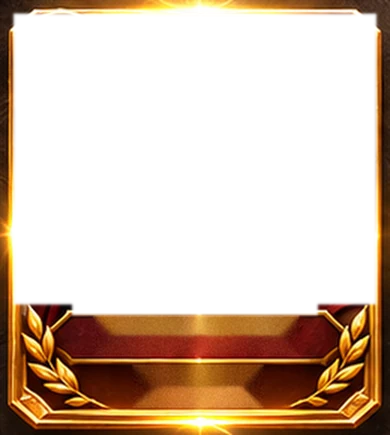
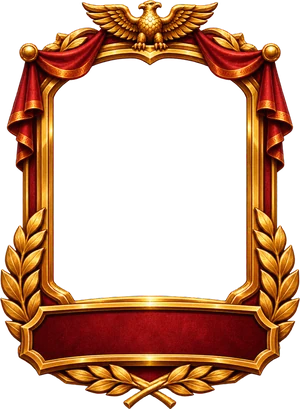
Victory screen from separate ChatGPT parts (v0.16.5)
Panel, banner, ribbon, card frame, coin panel and buttons are now the
separate transparent images instead of cut-outs from one mockup. Layout
scales with the panel width (container units), card portraits crop the
painted card art by percentage.

Claude-Session: https://claude.ai/code/session_01G3ZjrAEdzY3bS4o8QwE679

diff --git a/src/screens.css b/src/screens.css
@@ -120,47 +120,52 @@
   .lr-deck, .lr-pool { grid-template-columns: repeat(auto-fill, minmax(92px, 1fr)); }
 }
 
-/* ---------- Overwinnings-/verliesscherm (onderdelen uit art/source/overwinning-voorbeeld.png) ---------- */
-.lr-screen[data-screen='result'] { background: #000 var(--result-bg) center / cover no-repeat; }
-.lr-screen[data-screen='result'] .lr-sheet { width: min(640px, 100%); text-align: center; padding: 0 18px 16px;
-  background: linear-gradient(#2a1a10f2, #140c08f5); border: 3px solid #e2b155;
-  box-shadow: inset 0 0 0 2px #7a4f1c, inset 0 0 0 6px #2a1708, inset 0 0 0 7px #c8923f, 0 0 40px #ffb54a55, 0 18px 50px #000c; }
-.lr-banner { position: relative; margin: 0 -18px 4px; }
-.lr-banner img { display: block; width: 100%; height: auto; border-radius: 14px 14px 0 0; }
-.lr-banner span { position: absolute; inset: 0; display: grid; place-items: center; font: bold clamp(34px, 9vw, 64px) Georgia, serif;
-  letter-spacing: .08em; color: #e9d7b5; background: linear-gradient(#f5e6c8, #a99579); -webkit-background-clip: text; background-clip: text;
-  -webkit-text-fill-color: transparent; filter: drop-shadow(0 3px 0 #3a1608) drop-shadow(0 0 10px #000a); }
-.lr-banner.loss img { filter: saturate(.35) brightness(.7); }
-.lr-ribbon img { width: min(380px, 80%); height: auto; }
-.lr-rcards { display: flex; gap: 10px; justify-content: center; flex-wrap: wrap; margin: 6px 0 10px; }
-.lr-rcard { position: relative; width: 120px; aspect-ratio: 390 / 435; animation: lrDeal .5s backwards; }
+/* ---------- Overwinnings-/verliesscherm (losse onderdelen: art/source/overwinning-*.png) ---------- */
+/* Alle maten in % / cqw van de paneelbreedte, zodat het op elk scherm hetzelfde oogt. */
+.lr-screen[data-screen='result'] { background: #000 var(--result-bg) center / cover no-repeat; overflow: auto; }
+.lr-screen[data-screen='result'] .lr-sheet { container-type: inline-size; width: min(800px, 96vw, 118dvh); aspect-ratio: 1200 / 787;
+  max-height: none; overflow: visible; text-align: center; border: 0; border-radius: 0; box-shadow: none;
+  padding: 12.5cqw 8cqw 5cqw; margin: 8vh 0 1vh; position: relative; display: flex; flex-direction: column; justify-content: flex-start;
+  background: var(--result-panel) center / 100% 100% no-repeat; filter: drop-shadow(0 14px 30px #000c); }
+.lr-banner { position: absolute; left: 17%; width: 66%; top: -10cqw; }
+.lr-banner img { display: block; width: 100%; height: auto; }
+.lr-banner span { position: absolute; left: 18%; right: 18%; top: 34%; bottom: 26%; display: grid; place-items: center;
+  font: bold 6.4cqw Georgia, 'Times New Roman', serif; letter-spacing: .08em; line-height: 1;
+  background: linear-gradient(#fff6c8 10%, #ffd45c 45%, #c7871f 85%); -webkit-background-clip: text; background-clip: text;
+  -webkit-text-fill-color: transparent; filter: drop-shadow(0 .35cqw 0 #4a1606) drop-shadow(0 0 1.2cqw #000c); }
+.lr-banner.loss img { filter: saturate(.3) brightness(.75); }
+.lr-banner.loss span { background-image: linear-gradient(#f2ece2 10%, #c9bfae 55%, #8f8270 85%); }
+.lr-ribbon { flex: none; }
+.lr-ribbon img { width: 40cqw; height: auto; display: block; margin: 0 auto; }
+.lr-rrow { display: flex; gap: 3cqw; justify-content: center; align-items: center; margin: 1.2cqw 0 0; }
+.lr-rcards { display: flex; gap: 1.6cqw; justify-content: center; }
+.lr-rcard { position: relative; width: 14.5cqw; aspect-ratio: 300 / 409; animation: lrDeal .5s backwards; }
 .lr-rcard:nth-child(2) { animation-delay: .12s; } .lr-rcard:nth-child(3) { animation-delay: .24s; } .lr-rcard:nth-child(4) { animation-delay: .36s; }
 .lr-rcard > img { position: absolute; inset: 0; width: 100%; height: 100%; pointer-events: none; }
-/* portretgat in de lijst: 9..251 x 9..210 van 260 x 290 bronpixels */
-.lr-rcard-art { position: absolute; left: 3.5%; top: 3.1%; width: 93%; height: 69.5%; overflow: hidden; display: grid; place-items: center; }
-.lr-rcard-art .lr-card-img { transform: scale(1.6); transform-origin: 62% 52%; }
-.lr-rcard b { position: absolute; left: 0; right: 0; top: 75%; font-size: 10.5px; color: #ffe39b; text-transform: uppercase; letter-spacing: .04em;
-  text-shadow: 0 1px 0 #3a1608; white-space: nowrap; overflow: hidden; text-overflow: ellipsis; padding: 0 12%; }
-.lr-rcard i { position: absolute; left: 0; right: 0; top: 85.5%; font: bold 15px Georgia, serif; font-style: normal; color: #8ff0a2; text-shadow: 0 1px 2px #000; }
+.lr-rcard-art { position: absolute; left: 17%; top: 13.5%; width: 66%; height: 61%; overflow: hidden; display: grid; place-items: center; background: #1b120b; }
+.lr-portrait { position: absolute; left: 0; top: 0; width: 100%; transform: scale(1.5); transform-origin: 68% 60%; }
+.lr-rcard b { position: absolute; left: 14%; right: 14%; top: 79%; font-size: 1.45cqw; line-height: 1.2; color: #ffe39b; text-transform: uppercase;
+  letter-spacing: .02em; text-shadow: 0 1px 0 #3a1608; white-space: nowrap; overflow: hidden; text-overflow: ellipsis; }
+.lr-rcard i { position: absolute; left: 0; right: 0; bottom: -13%; font: bold 2.4cqw Georgia, serif; font-style: normal; color: #8ff0a2;
+  text-shadow: 0 1px 2px #000, 0 0 6px #000; }
 @keyframes lrDeal { from { opacity: 0; transform: translateY(20px) scale(.85) rotate(-4deg); } }
-.lr-coinbox { position: relative; width: min(460px, 100%); margin: 4px auto; }
-.lr-coinbox img { display: block; width: 100%; height: auto; border-radius: 8px; }
-.lr-coinbox div { position: absolute; left: 42%; right: 12%; top: 0; bottom: 0; display: flex; flex-direction: column; justify-content: center; line-height: 1.05; }
-.lr-coinbox small { color: #ecc97d; letter-spacing: .14em; font-size: 12px; font-weight: bold; }
-.lr-coinbox b { font-size: clamp(26px, 6vw, 40px); color: #ffe39b; text-shadow: 0 2px 0 #5a3410, 0 0 12px #ffb54a88; }
-.lr-noreward { margin: 14px 0 !important; }
-.lr-bigbtn { position: relative; border: 0; padding: 0; background: none; cursor: pointer; width: min(300px, 62%); transition: transform .12s, filter .12s; }
-.lr-bigbtn.small { width: min(150px, 32%); }
+.lr-coinbox { position: relative; width: 38cqw; flex: none; }
+.lr-coinbox img { display: block; width: 100%; height: auto; }
+.lr-coinbox div { position: absolute; left: 40%; right: 12%; top: 34%; bottom: 16%; display: flex; flex-direction: column; justify-content: center; line-height: 1.05; }
+.lr-coinbox small { color: #ecc97d; letter-spacing: .14em; font-size: 1.6cqw; font-weight: bold; }
+.lr-coinbox b { font-size: 4.8cqw; color: #ffe39b; text-shadow: 0 2px 0 #5a3410, 0 0 12px #ffb54a88; }
+.lr-screen[data-screen='result'] .lr-level { justify-content: center; margin: 3.4cqw 0 0; font-size: 2.1cqw; gap: 1.5cqw; }
+.lr-screen[data-screen='result'] .lr-level small { font-size: 1.6cqw; }
+.lr-screen[data-screen='result'] .lr-xpbar { width: 30cqw; }
+.lr-screen[data-screen='result'] .lr-levelup, .lr-screen[data-screen='result'] .lr-ach-new { margin: .6cqw auto 0; font-size: 1.9cqw; padding: .4cqw 1.2cqw; }
+.lr-screen[data-screen='result'] .lr-ach-new { width: fit-content; max-width: 100%; }
+.lr-noreward { margin: 8cqw 0 4cqw !important; font-size: 2.6cqw; }
+.lr-result-actions { display: flex; gap: 2%; justify-content: center; align-items: center; margin-top: auto; padding-top: 1.5cqw; }
+.lr-bigbtn { position: relative; border: 0; padding: 0; background: none; cursor: pointer; width: 32cqw; transition: transform .12s, filter .12s; }
+.lr-bigbtn.small { width: 20cqw; }
 .lr-bigbtn img { display: block; width: 100%; height: auto; }
-.lr-bigbtn span { position: absolute; inset: 0 14%; display: grid; place-items: center; font: bold clamp(13px, 2.6vw, 19px) Georgia, serif;
-  color: #ffe9b0; text-shadow: 0 2px 0 #4a0d06, 0 0 8px #000; letter-spacing: .04em; text-transform: uppercase; }
-.lr-bigbtn.small span { inset: 0 18%; font-size: clamp(11px, 2vw, 15px); }
+.lr-bigbtn span { position: absolute; left: 16%; right: 16%; top: 18%; bottom: 32%; display: grid; place-items: center;
+  font: bold 2.5cqw Georgia, serif; color: #ffe9b0; text-shadow: 0 2px 0 #4a0d06, 0 0 8px #000; letter-spacing: .05em; text-transform: uppercase; }
+.lr-bigbtn.small span { left: 10%; right: 10%; top: 14%; bottom: 14%; font-size: 1.9cqw; }
 .lr-bigbtn:hover { filter: brightness(1.12); transform: translateY(-1px); } .lr-bigbtn:active { transform: translateY(1px); }
-@media (max-height: 520px) {
-  .lr-screen[data-screen='result'] .lr-sheet { width: min(430px, 100%); padding-bottom: 10px; }
-  .lr-ribbon { display: none; } .lr-rcards { margin: 4px 0; }
-  .lr-rcard { width: 70px; } .lr-rcard b { font-size: 8px; } .lr-rcard i { font-size: 9px; }
-  .lr-banner { margin-bottom: 0; } .lr-coinbox { width: min(300px, 100%); margin: 2px auto; }
-  .lr-screen[data-screen='result'] .lr-level { margin: 2px 0; } .lr-levelup, .lr-ach-new { margin: 3px 0 !important; font-size: 13px; }
-  .lr-result-actions { margin-top: 4px; }
-}
+.lr-xpgain { font-style: normal; font-weight: bold; color: #c9a8ff; text-shadow: 0 1px 2px #000; }

diff --git a/src/screens.js b/src/screens.js
@@ -245,37 +245,46 @@ window.addEventListener('lr:session', () => {
 
 // ---------- Beloningen na een gevecht ----------
 const artUrl = name => `${BASE}assets/art/${name}.webp?v=${BUILD}`;
-// Beloningskaart: ons kaartportret in de goudlijst uit result-card.webp.
+// Beloningskaart: ons kaartportret in de goudlijst (result-card.webp, portretgat doorzichtig).
+// Portret schaalt mee met de lijst (procenten), ingezoomd zodat de eigen kaartrand en het energiejuweel wegvallen.
+function cardPortrait(type) {
+  const a = CARD_ART.cards[type], fw = CARD_ART.frameWidth, n = Object.keys(CARD_ART.cards).length;
+  const px = (a.frame * fw + (fw - a.width) / 2) / (n * fw - a.width) * 100;
+  return `<span class="lr-portrait" style="aspect-ratio:${a.width}/${CARD_ART.frameHeight};
+    background:url(${BASE}assets/art/cards.png?v=${BUILD}) ${px}% 0 / ${n * fw / a.width * 100}% auto no-repeat"></span>`;
+}
 function rewardCard(type, text) {
-  return `<div class="lr-rcard"><span class="lr-rcard-art">${cardImg(type, 150)}</span>
+  return `<div class="lr-rcard"><span class="lr-rcard-art">${cardPortrait(type)}</span>
     <img src="${artUrl('result-card')}" alt=""><b>${esc(NAMES[type])}</b><i>${text}</i></div>`;
 }
+const artButton = (id, label, small) => `<button class="lr-bigbtn${small ? ' small' : ''}" id="${id}">
+  <img src="${artUrl(small ? 'result-button-small' : 'result-button')}" alt=""><span>${label}</span></button>`;
 function showResult({ winner, reward, error, guest }) {
   const win = winner === 'blue';
   const frags = Object.entries(reward?.fragments ?? {});
   open('result', `
-    <div class="lr-banner ${win ? 'win' : 'loss'}">${win ? `<img src="${artUrl('result-banner-victory')}" alt="Victory">`
-      : `<img src="${artUrl('result-banner-blank')}" alt=""><span>DEFEAT</span>`}</div>
+    <div class="lr-banner ${win ? 'win' : 'loss'}"><img src="${artUrl('result-banner')}" alt=""><span>${win ? 'VICTORY' : 'DEFEAT'}</span></div>
     ${reward ? `
-      ${frags.length ? `<div class="lr-ribbon"><img src="${artUrl('result-ribbon')}" alt="Battle rewards"></div>
-        <div class="lr-rcards">${frags.map(([t, n]) => rewardCard(t, `+${n}`)).join('')}</div>` : ''}
-      <div class="lr-coinbox"><img src="${artUrl('result-coins')}" alt="">
-        <div><small>COINS</small><b>+${reward.coinsGained}</b><small>+${reward.xpGained} XP</small></div></div>
+      <div class="lr-ribbon"><img src="${artUrl('result-ribbon')}" alt="Battle rewards"></div>
+      <div class="lr-rrow">
+        ${frags.length ? `<div class="lr-rcards">${frags.map(([t, n]) => rewardCard(t, `+${n}`)).join('')}</div>` : ''}
+        <div class="lr-coinbox"><img src="${artUrl('result-coins')}" alt="">
+          <div><small>COINS</small><b>+${reward.coinsGained}</b></div></div></div>
       <div class="lr-level"><b>Level ${reward.level}</b><span class="lr-xpbar"><i style="width:${reward.xpForNext ? Math.round(100 * reward.xpInLevel / reward.xpForNext) : 100}%"></i></span>
-        <small>${reward.xpForNext ? `${reward.xpInLevel} / ${reward.xpForNext} XP` : 'Max level'}</small></div>
+        <small>${reward.xpForNext ? `${reward.xpInLevel} / ${reward.xpForNext} XP` : 'Max level'}</small><em class="lr-xpgain">+${reward.xpGained} XP</em></div>
       ${reward.level > reward.levelBefore ? `<p class="lr-levelup">⭐ Level up! You reached level ${reward.level} (+${100 * (reward.level - reward.levelBefore)} 🪙)</p>` : ''}
       ${(reward.achievements ?? []).map(a => `<p class="lr-ach-new">🏆 <b>${esc(a.title)}</b> — ${esc(a.description)}</p>`).join('')}`
     : `<p class="lr-muted lr-noreward">${guest ? 'Sign in to earn XP, coins and card fragments.' : esc(error || 'No rewards for this battle.')}</p>`}
-    <div class="lr-result-actions">
-      <button class="lr-bigbtn" id="lr-again"><img src="${artUrl('result-button')}" alt=""><span>${win ? 'Play again' : 'Try again'}</span></button>
-      <button class="lr-bigbtn small" id="lr-menu"><img src="${artUrl('result-button')}" alt=""><span>Menu</span></button></div>`, el => {
+    <div class="lr-result-actions">${artButton('lr-again', win ? 'Play again' : 'Try again')}${artButton('lr-menu', 'Menu', true)}</div>`, el => {
     el.querySelector('.lr-close').remove();
     // Eerste halve seconde negeren: een tik die nog voor het gevecht bedoeld was, telt niet.
     const go = ev => () => { if (performance.now() - openedAt < 600) return; close(); window.dispatchEvent(new Event(ev)); };
     el.querySelector('#lr-again').onclick = go('lr:again');
     el.querySelector('#lr-menu').onclick = go('lr:to-menu');
   });
-  root.querySelector('.lr-screen').style.setProperty('--result-bg', `url(${artUrl('result-bg')})`);
+  const scr = root.querySelector('.lr-screen');
+  scr.style.setProperty('--result-bg', `url(${artUrl('result-bg')})`);
+  scr.style.setProperty('--result-panel', `url(${artUrl('result-panel')})`);
 }
 
 // ---------- E-mail-wijzigingslink (#email_change_token=...) ----------

diff --git a/tools/art/victory.py b/tools/art/victory.py
@@ -1,72 +1,44 @@
-"""Onderdelen voor het overwinnings-/verliesscherm, uitgesneden uit het voorbeeld
-art/source/overwinning-voorbeeld.png (één plaatje van ChatGPT).
+"""Onderdelen van het overwinnings-/verliesscherm (losse PNG's met doorzichtige achtergrond,
+gemaakt door ChatGPT): art/source/overwinning-*.png -> public/assets/art/result-*.webp.
 
-Tekst die per gevecht verschilt (titel, munten, knoppen, kaartnamen) wordt
-weggepoetst (inpainting); het spel zet er zelf tekst overheen (src/screens.css).
+Alleen bijsnijden tot de inhoud en verkleinen; de tekst zet het spel er zelf op
+(src/screens.js / screens.css). De posities van vlakken binnen de plaatjes (portretgat,
+naamplaat, knoptekst) staan als percentages in src/screens.css.
 """
-import cv2
 import numpy as np
 from PIL import Image
 
-PARTS = {   # naam -> (uitsnede, gebieden om leeg te maken, modus)
-    'result-banner-victory': ((290, 170, 1160, 345), [], None),
-    'result-banner-blank': ((290, 170, 1160, 345), [(420, 195, 1050, 322)], 'letters'),
-    'result-ribbon': ((470, 345, 975, 405), [], None),
-    'result-coins': ((440, 715, 1090, 845), [(700, 728, 960, 832)], 'rect'),
-    'result-button': ((400, 850, 1050, 985), [(500, 880, 960, 955)], 'rect'),
+PARTS = {   # bron -> (uitvoer, breedte)
+    'overwinning-paneel.png': ('result-panel', 1200),
+    'overwinning-banner.png': ('result-banner', 1000),
+    'overwinning-lint.png': ('result-ribbon', 700),
+    'overwinning-munten.png': ('result-coins', 800),
+    'overwinning-kaart.png': ('result-card', 300),
+    'overwinning-knop-breed.png': ('result-button', 600),
+    'overwinning-knop-smal.png': ('result-button-small', 400),
 }
-CARD = (200, 410, 460, 700)           # kaartlijst met naamplaat en sterren
-CARD_HOLE = (9, 9, 251, 203)          # portret (binnen de uitsnede) -> doorzichtig
-CARD_CLEAN = [(62, 210, 200, 237), (88, 243, 176, 272)]   # naam en sterren
 
 
-def _clean(c, rects, mode, origin):
-    ox, oy = origin
-    m = np.zeros(c.shape[:2], np.uint8)
-    for x0, y0, x1, y1 in rects:
-        x0, y0, x1, y1 = x0 - ox, y0 - oy, x1 - ox, y1 - oy
-        if mode == 'letters':   # goud en donkere schaduw van de letters
-            hsv = cv2.cvtColor(c[y0:y1, x0:x1], cv2.COLOR_BGR2HSV)
-            gold = (hsv[..., 0] >= 12) & (hsv[..., 0] <= 35) & (hsv[..., 2] > 110)
-            m[y0:y1, x0:x1] = ((gold | (hsv[..., 2] < 55)) * 255).astype(np.uint8)
-        else:
-            m[y0:y1, x0:x1] = 255
-    if mode == 'letters':
-        m = cv2.dilate(cv2.morphologyEx(m, cv2.MORPH_CLOSE, np.ones((9, 9), np.uint8)), np.ones((7, 7), np.uint8))
-        out = cv2.inpaint(c, m, 7, cv2.INPAINT_TELEA)
-        blur = cv2.GaussianBlur(out, (0, 0), 9)    # restschim van de oude letters wegwassen
-        soft = cv2.GaussianBlur(m, (0, 0), 6)[..., None] / 255.0
-        return (out * (1 - soft) + blur * soft).astype(np.uint8)
-    out = cv2.inpaint(c, m, 15, cv2.INPAINT_NS)
-    noise = np.random.default_rng(1).normal(0, 4, out.shape[:2])[..., None]
-    return np.where(m[..., None] > 0, np.clip(out + noise, 0, 255), out).astype(np.uint8)
-
-
-def _save(bgr, path, alpha=None):
-    rgb = cv2.cvtColor(bgr, cv2.COLOR_BGR2RGB)
-    im = Image.fromarray(rgb if alpha is None else np.dstack([rgb, alpha]))
-    im.save(path, quality=88, method=6)
+def _part(path, width):
+    a = np.array(Image.open(path).convert('RGBA'))
+    a[..., 3] = np.where(a[..., 3] < 24, 0, a[..., 3])          # waas rond de rand weg
+    whitish = (a[..., 3] < 170) & (a[..., :3].min(2) > 190)       # lichte gloed/schaduwrest van de oude witte achtergrond
+    a[..., 3] = np.where(whitish, 0, a[..., 3])
+    ys, xs = np.where(a[..., 3] > 0)
+    a = a[ys.min():ys.max() + 1, xs.min():xs.max() + 1]
+    pm = a.astype(float); pm[..., :3] *= pm[..., 3:] / 255        # premultiplied verkleinen: geen lichte randen
+    h = round(a.shape[0] * width / a.shape[1])
+    r = np.array(Image.fromarray(pm.clip(0, 255).astype(np.uint8), 'RGBA').resize((width, h), Image.LANCZOS)).astype(float)
+    al = r[..., 3:]; r[..., :3] = np.where(al > 0, r[..., :3] * 255 / np.maximum(al, 1), 0)
+    return Image.fromarray(r.clip(0, 255).astype(np.uint8), 'RGBA')
 
 
 def build_victory(SRC, OUT):
-    src = cv2.imread(SRC + 'overwinning-voorbeeld.png')
     info = {}
-    for name, (box, rects, mode) in PARTS.items():
-        x0, y0, x1, y1 = box
-        c = src[y0:y1, x0:x1].copy()
-        if rects: c = _clean(c, rects, mode, (x0, y0))
-        _save(c, f'{OUT}/{name}.webp')
-        info[name] = {'width': x1 - x0, 'height': y1 - y0}
-    x0, y0, x1, y1 = CARD
-    c = _clean(src[y0:y1, x0:x1].copy(), [(a + x0, b + y0, cc + x0, d + y0) for a, b, cc, d in CARD_CLEAN], 'rect', (x0, y0))
-    alpha = np.full(c.shape[:2], 255, np.uint8)
-    hx0, hy0, hx1, hy1 = CARD_HOLE
-    alpha[hy0:hy1, hx0:hx1] = 0
-    alpha[hy1:hy1 + 7, 48:212] = 0        # strookje portret boven de naamplaat, tussen de lauweren
-    alpha = cv2.GaussianBlur(alpha, (0, 0), 0.8)
-    big = cv2.resize(c, None, fx=1.5, fy=1.5, interpolation=cv2.INTER_LANCZOS4)
-    _save(big, f'{OUT}/result-card.webp', cv2.resize(alpha, (big.shape[1], big.shape[0]), interpolation=cv2.INTER_LINEAR))
-    info['result-card'] = {'width': big.shape[1], 'height': big.shape[0], 'hole': CARD_HOLE, 'scale': 1.5}
+    for src, (name, width) in PARTS.items():
+        im = _part(SRC + src, width)
+        im.save(f'{OUT}/{name}.webp', quality=88, method=6)
+        info[name] = im.size
     return info
 
 

diff --git a/tools/art/build.py b/tools/art/build.py
@@ -16,6 +16,7 @@ from effects import build_effects
 from screens import build_screens
 from reference import build_reference
 from avatars import build_avatars
+from victory import build_victory
 
 ROOT = os.path.abspath(os.path.join(os.path.dirname(__file__), '..', '..'))
 SRC = os.path.join(ROOT, 'art', 'source') + '/'
@@ -28,6 +29,7 @@ build_bar(SRC, OUT, os.path.join(ROOT, 'src', 'art', 'cardbar.json'))
 build_effects(SRC, OUT, os.path.join(ROOT, 'src', 'art', 'effects.json'))
 build_screens(SRC, OUT, os.path.join(ROOT, 'src', 'art', 'screens.json'))
 build_avatars(SRC, os.path.join(ROOT, 'public', 'assets'))
+build_victory(SRC, OUT)
 build_reference(OUT, os.path.join(ROOT, 'src', 'art', 'units.json'), os.path.join(ROOT, 'art', 'reference'))
 for f in sorted(os.listdir(OUT)):
     print(f'{f:24s} {os.path.getsize(os.path.join(OUT, f)) // 1024:5d} kB')

diff --git a/AGENTS.md b/AGENTS.md
@@ -86,7 +86,7 @@ Een nieuwe kaart is één regel in `CARDS` (met `radius` en rand-tot-rand `range
 - Endpoints: `profile.php`, `profile-update.php`, `email-change-request.php`/`-confirm.php`, `match-start.php`/`match-finish.php`, `card-upgrade.php`, `deck-save.php`, `friends.php`, `friend-request.php`, `friend-respond.php`. Integration tests: `tests/api/api.test.mjs` (needs MariaDB + PHP; runs in the Account database workflow).
 - UI: `src/screens.js`/`screens.css` are DOM overlays. Events: `lr:open` (detail `profile|achievements|deck|friends`), `lr:session`, `lr:player`, `lr:friends`, `lr:result`, `lr:again`, `lr:to-menu`. `src/account.js` is the API client (`window.lrAccount`).
 - **Trust model (deliberate, known limitation):** AI matches run in the browser, so their results are client-reported. Mitigations on the server: a single-use match token from `match-start.php`, minimum 30 s / maximum 1 h duration, rate limit, capped tower/unit counts, server-side XP/coins/drops. Rewards are small. Do not raise rewards or add tradeable value on top of this. Ranked PvP (phase 4) must NOT use this path: it must be server-verifiable (deterministic lockstep replay of the seed + inputs through `src/sim`).
-- Result screen (v0.16.1): parts cut from `art/source/overwinning-voorbeeld.png` by `tools/art/victory.py` (text removed by inpainting; the game writes its own text), background `overwinning-achtergrond.png` -> `result-bg.webp`. Fullscreen targets the whole page (`fullscreenTarget: document.documentElement`), otherwise DOM screens are invisible in fullscreen.
+- Result screen (v0.16.5): separate transparent parts `art/source/overwinning-{paneel,banner,lint,munten,kaart,knop-breed,knop-smal}.png` -> `result-*.webp` via `tools/art/victory.py` (trim + resize only; the game writes all text). Background `overwinning-achtergrond.png` -> `result-bg.webp`. Layout in `src/screens.css` uses `cqw` units of the panel width; card portraits use `cardPortrait()` (percent-based crop of `cards.png`). Fullscreen targets the whole page (`fullscreenTarget: document.documentElement`), otherwise DOM screens are invisible in fullscreen.
 - Burning buildings (v0.16.1): `FIRES` in `src/main.js` lists fire/torch/smoke points per damage stage (frame pixels); `drawFires()` adds flicker, flames, embers and smoke; `collapseBurst()` + sound `tower-collapse` when a tower/castle falls. The healer card is shown as **Priestess** (internal type stays `healer`).
 - Phase 4 (not built): friend challenge + ranking via polling lockstep (like Relic Slide's class mode).
 - Guest play must remain usable if Google credentials are not yet set. Never put passwords, OAuth secrets, DB connection info, or privileged database operations into browser JavaScript.
